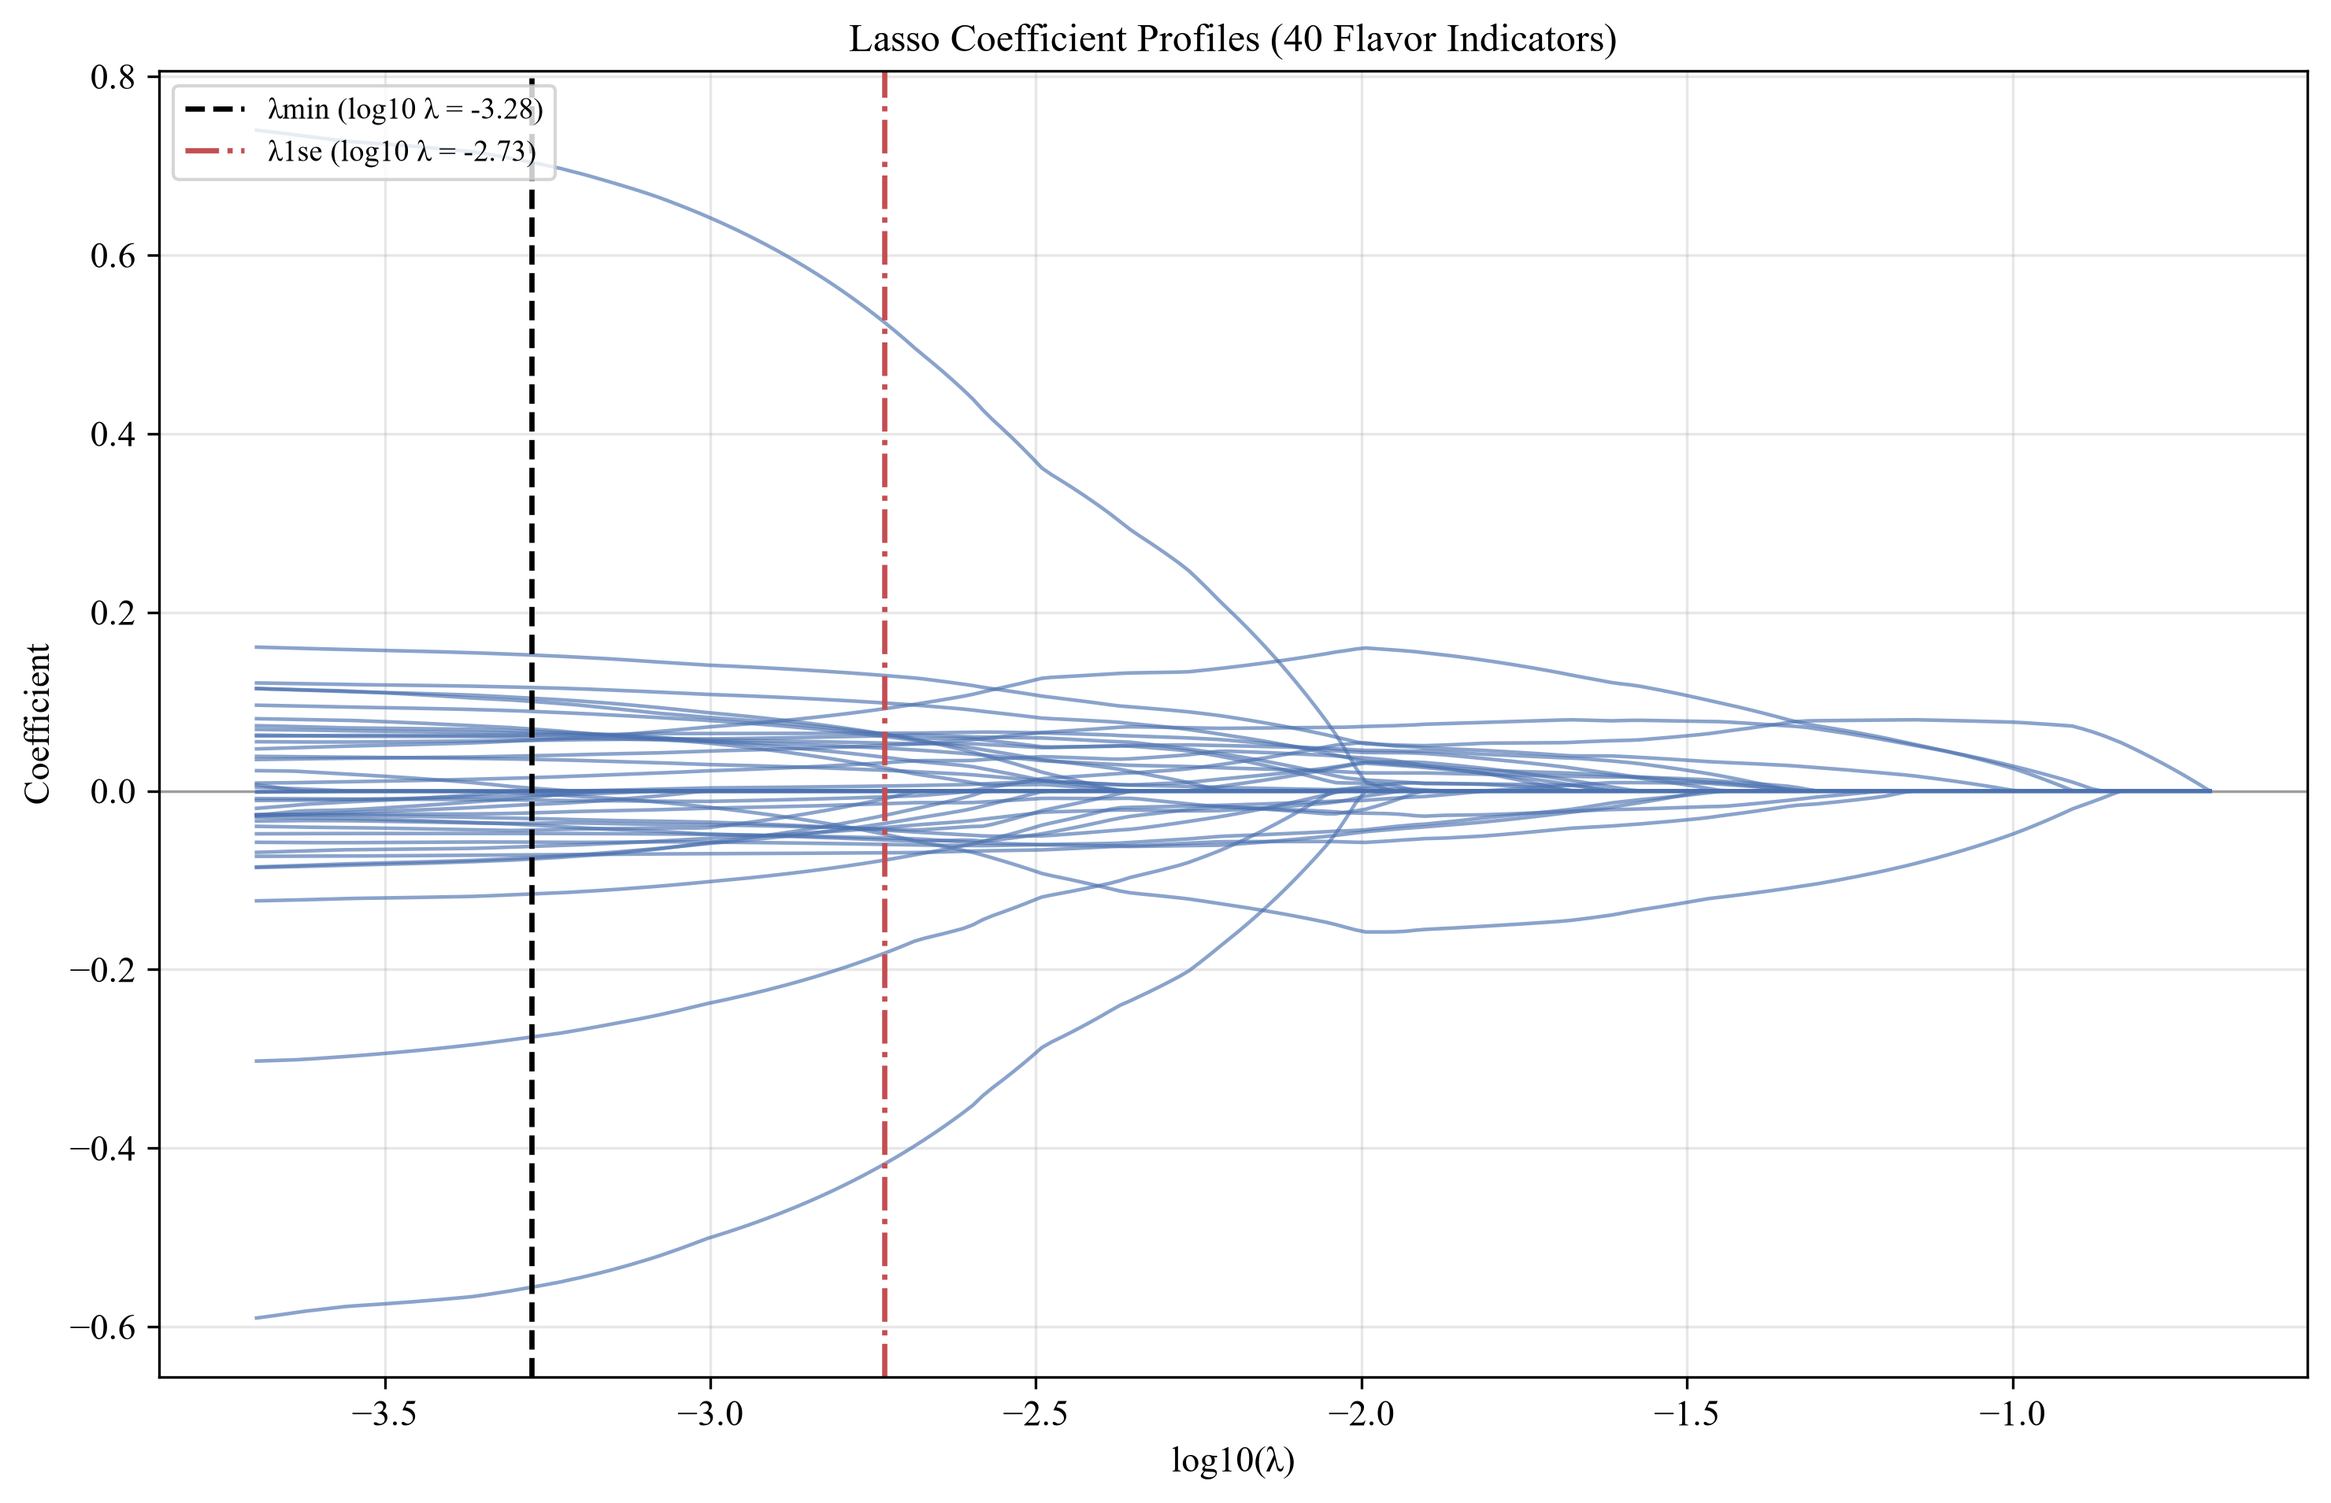
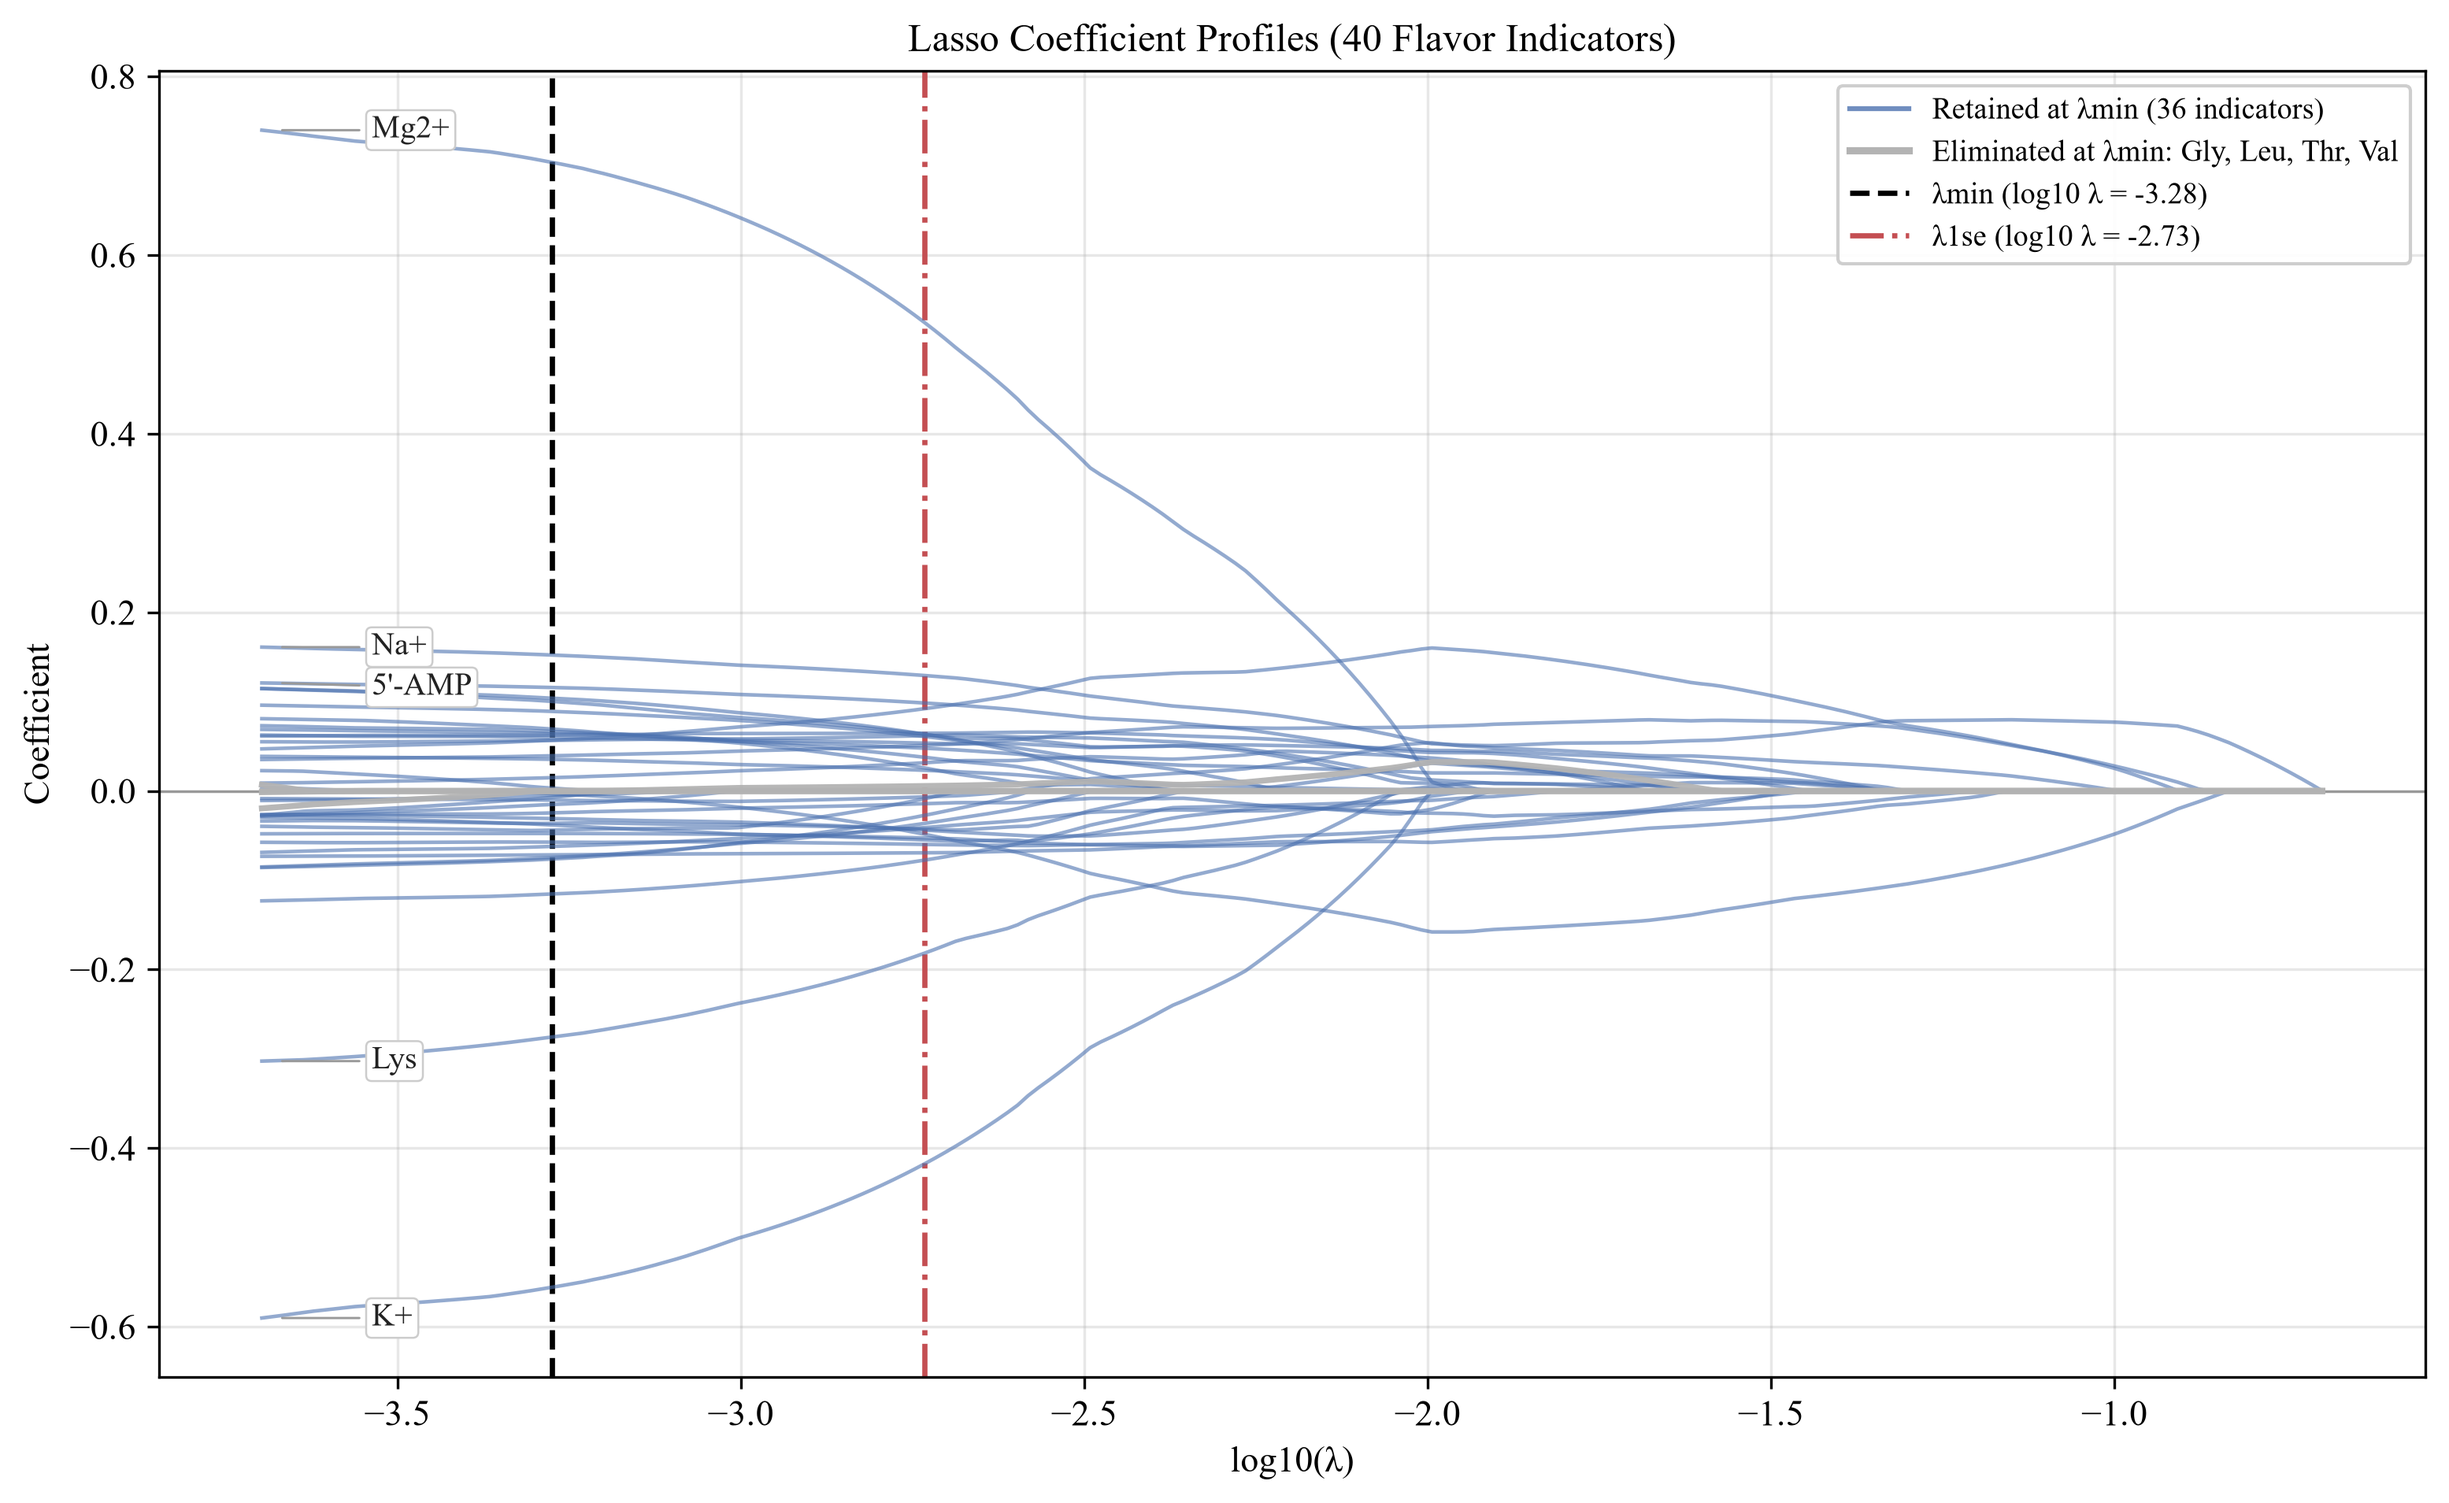
升级图1：关键曲线标注 + 被淘汰指标高亮

diff --git a/README.md b/README.md
@@ -54,7 +54,7 @@
 ├── requirements.txt
 ├── data/                   # 官方数据（模板自带）
 └── figures/
-    ├── fig1_lasso_paths.png        # 图 1：系数路径（含 λmin/λ1se 竖线与数值）
+    ├── fig1_lasso_paths.png        # 图 1：系数路径（含 λmin/λ1se 竖线、关键指标标注、被淘汰指标高亮）
     ├── fig2_cv_mse.png             # 图 2：10 折 CV 误差曲线（MSE ± SE）
     └── fig3_coefficients.png       # 图 3：λmin 下非零系数条形图
 ```
